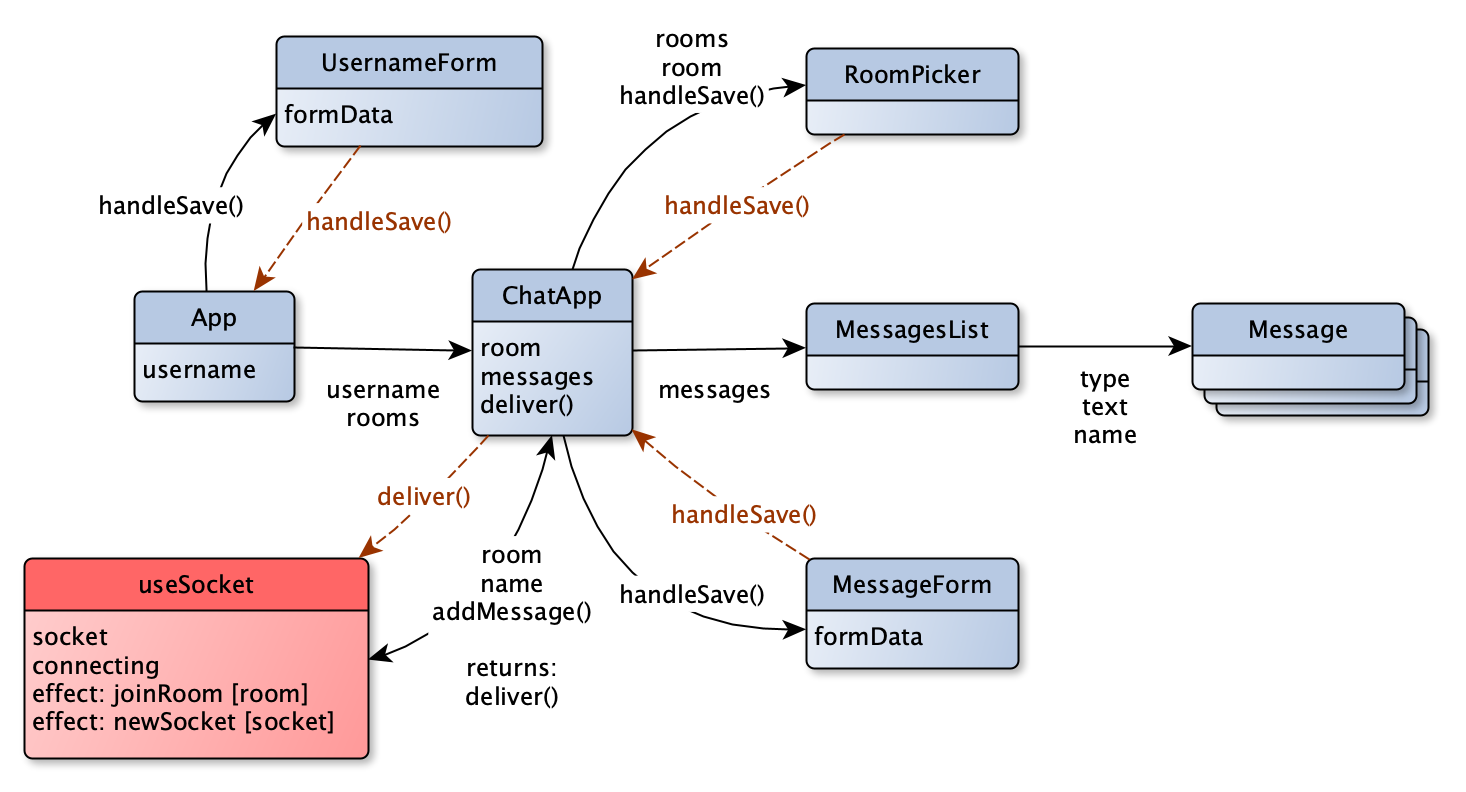
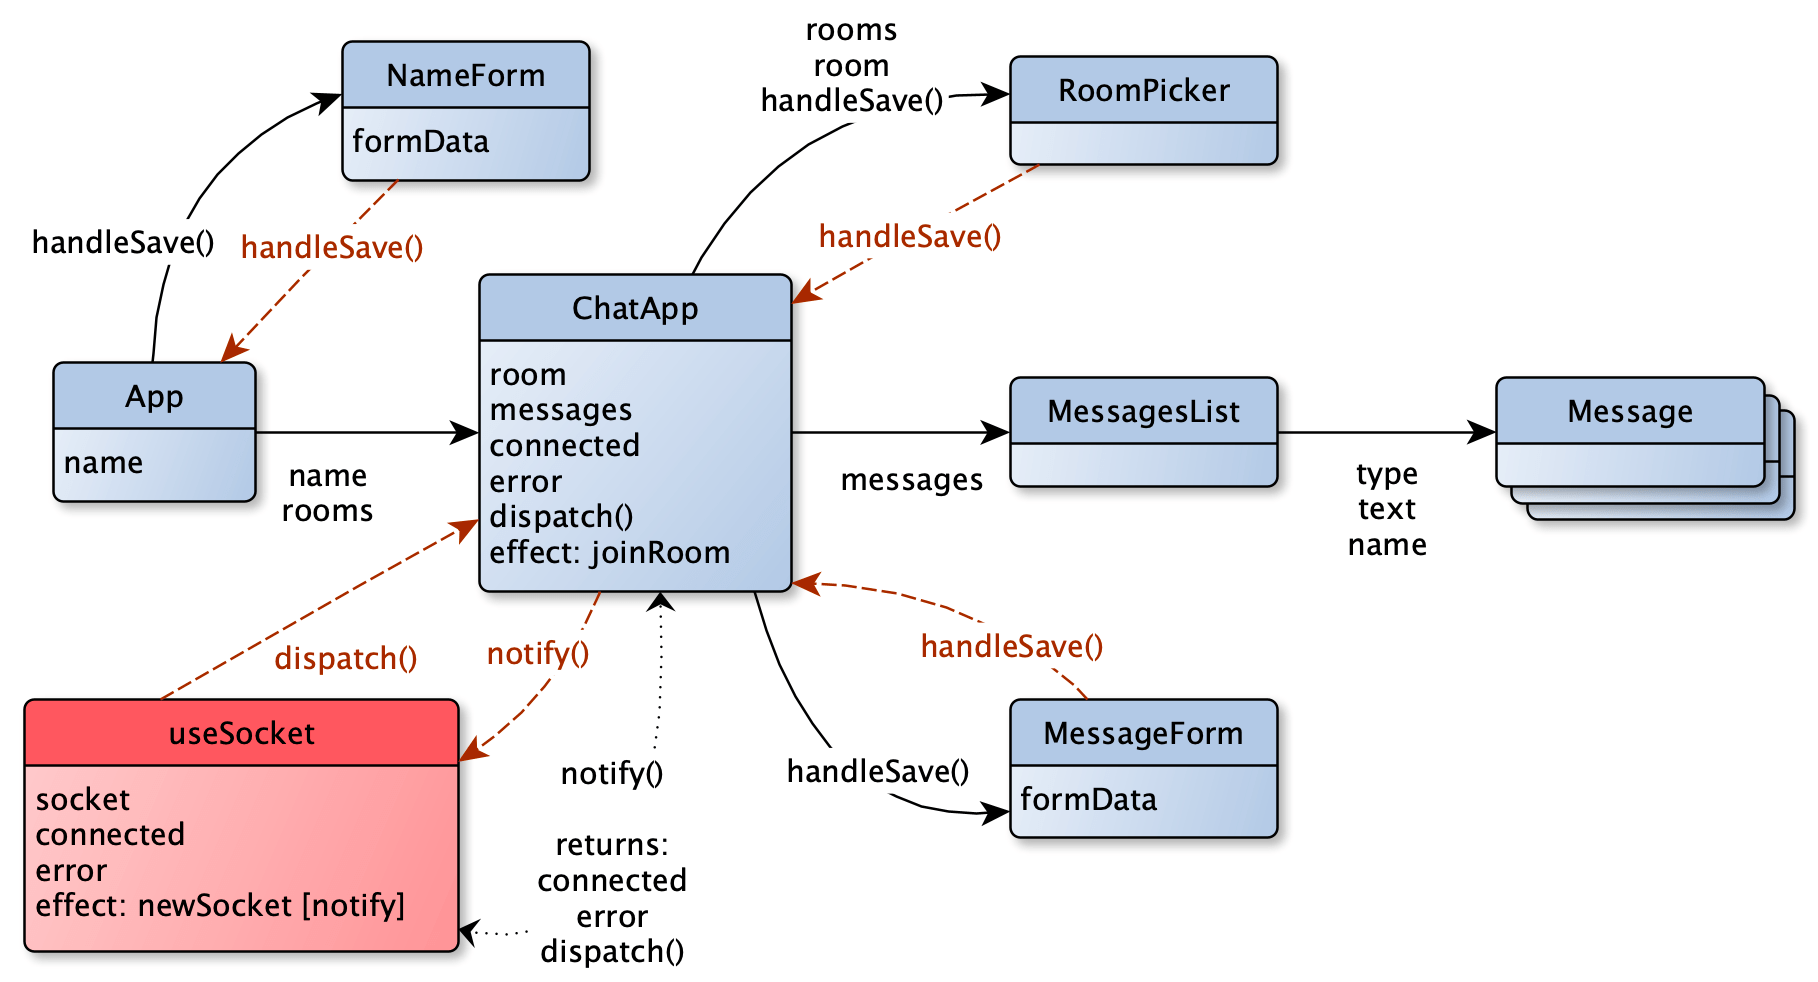
refactor: move room out of socket layer
- upload new image

- store img source in project

diff --git a/frontend/src/useSocket.js b/frontend/src/useSocket.js
@@ -1,48 +1,41 @@
-import { useEffect, useRef, useState } from "react";
+import { useEffect, useRef, useState, useCallback } from "react";
 
 /** Handle backend communication:
  *
- * - creates websocket & sends join message on new room
- * - sends leaving message on room departure
+ * - creates websocket
  * - receives messages from backend and sends to parent
- * - returns deliver function that parent can use to send to backend
+ * - returns dispatch function that parent can use to send to backend
+ *
+ * Props:
+ * - notify(msg): call in parent to notify them of a message.
  */
 
 const BASE_URL = process.env.REACT_APP_BASE_URL || "ws://localhost:3333";
 
-function useSocket(room, name, addMessage) {
+function useSocket(notify) {
   // a ref is like state, except it doesn't trigger a re-render when changed.
   // we'll hold onto the handler for the persistent websocket connection.
   const socket = useRef();
   const [connected, setConnected] = useState(false);
+  const [error, setError] = useState(null);
 
   /** newSocket: attaches listeners to socket. */
   useEffect(function newSocket() {
     if (socket.current) return;
 
     socket.current = new WebSocket(`${BASE_URL}/chat/`);
-    socket.current.onopen = evt => setConnected(true);
-    socket.current.onmessage = evt => addMessage(JSON.parse(evt.data));
-  }, [addMessage]);
-
-  /** joinRoom: join room, leave room on cleanup */
-  useEffect(function joinRoom() {
-    if (!room || !connected) return;
-
-    socket.current.send(JSON.stringify({ type: "join", name, room }));
-
-    return function leaveRoom() {
-      socket.current.send(JSON.stringify({ type: "leave" }));
-    };
-  }, [connected, room, name]);
+    socket.current.onopen = () => setConnected(true);
+    socket.current.onmessage = evt => notify(JSON.parse(evt.data));
+    socket.current.onerror = evt => setError(`WS Fail: ${evt.target.url}`);
+  }, [notify]);
 
   /** Deliver message to backend. */
-  function deliver(text, type = "chat") {
-    socket.current.send(JSON.stringify({ type, text }));
+  function dispatch(msg) {
+    socket.current.send(JSON.stringify(msg));
   }
 
   // Returns a function which ChatApp will call to send a message via backend.
-  return deliver;
+  return [connected, error, useCallback(dispatch, [socket])];
 }
 
 

diff --git a/frontend/src/NameForm.js b/frontend/src/NameForm.js
@@ -1,21 +1,20 @@
 import React, { useState } from "react";
-import "./UsernameForm.css";
+import "./NameForm.css";
 
 /** Form for adding.
  *
  * Props:
  * - handleSave: function to call in parent.
  *
- * ChatApp -> UsernameForm
+ * ChatApp -> NameForm
  */
 
-function UsernameForm({ handleSave }) {
-  const [formData, setFormData] = useState({username: ""});
+function NameForm({ handleSave }) {
+  const [formData, setFormData] = useState({name: ""});
 
   /** Update form input. */
   function handleChange(evt) {
     const input = evt.target;
-    if (evt.target.value.length >= 10) return
     setFormData(formData => ({
       ...formData,
       [input.name]: input.value,
@@ -29,18 +28,19 @@ function UsernameForm({ handleSave }) {
   }
 
   return (
-      <form className="UsernameForm d-flex vh-100" onSubmit={handleSubmit}>
+      <form className="NameForm d-flex vh-100" onSubmit={handleSubmit}>
 
         <div className="form-group align-self-center">
           <p>What shall we call you?</p>
           <input
-              id="UsernameForm-username"
-              name="username"
+              id="NameForm-name"
+              name="name"
               className="form-control"
               placeholder="TacoCat"
               onChange={handleChange}
-              value={formData.username}
-              aria-label="Username"
+              value={formData.name}
+              aria-label="Name"
+              maxLength="10"
               autoFocus={true}
           />
         </div>
@@ -49,4 +49,4 @@ function UsernameForm({ handleSave }) {
   );
 }
 
-export default UsernameForm;
+export default NameForm;

diff --git a/frontend/src/ChatApp.js b/frontend/src/ChatApp.js
@@ -1,4 +1,4 @@
-import React, { useState } from "react";
+import React, { useEffect, useState } from "react";
 import MessageForm from "./MessageForm";
 import MessagesList from "./MessagesList";
 import RoomPicker from "./RoomPicker";
@@ -6,10 +6,10 @@ import useSocket from "./useSocket";
 
 /** App: manage messages & room; show UI. */
 
-function ChatApp({ username, rooms = ["Main", "Gossip", "Scandal"] }) {
+function ChatApp({ name, rooms = ["Main", "Gossip", "Scandal"] }) {
   const [room, setRoom] = useState(rooms[0]);
   const [messages, setMessages] = useState([]);
-  const deliver = useSocket(room, username, addMessage);
+  const [connected, error, dispatch] = useSocket(addMessage);
 
   /** Add a message from backend. */
   function addMessage(message) {
@@ -18,8 +18,21 @@ function ChatApp({ username, rooms = ["Main", "Gossip", "Scandal"] }) {
 
   /** Process new message user just entered in form. */
   function userEnteredMessage({ message }) {
-    deliver(message);
+    dispatch({type: "chat", text: message});
   }
+
+  /** joinRoom: join room, leave room on cleanup */
+  useEffect(function joinRoom() {
+    if (!connected) return;
+
+    dispatch({type: "join", name, room });
+
+    return function leaveRoom() {
+      dispatch({type: "leave"})
+    };
+  }, [connected, room, name, dispatch]);
+
+  if (error) return <b>Error: { error }</b>;
 
   return (
       <main className="vh-100 d-flex flex-column">

diff --git a/frontend/src/App.js b/frontend/src/App.js
@@ -2,20 +2,22 @@ import React, { useState } from "react";
 import './App.css';
 import ChatApp from "./ChatApp.js";
 import "bootstrap/dist/css/bootstrap.css";
-import UsernameForm from "./UsernameForm";
+import NameForm from "./NameForm";
+
+/** Overall page: gathers a name then renders chat app. */
 
 function App() {
-  const [username, setUsername] = useState("");
+  const [name, setName] = useState("");
 
-  function acceptUsername({ username }) {
-    setUsername(username);
+  function acceptName({ name }) {
+    setName(name);
   }
 
   return (
     <div className="App container">
-      { !username
-      ? <UsernameForm handleSave={acceptUsername} />
-      : <ChatApp username={username} />}
+      { !name
+      ? <NameForm handleSave={acceptName} />
+      : <ChatApp name={name} />}
 
     </div>
   );

diff --git a/frontend/src/MessageForm.js b/frontend/src/MessageForm.js
@@ -14,7 +14,6 @@ function MessageForm({ handleSave }) {
   /** Update form input. */
   function handleChange(evt) {
     const input = evt.target;
-    if (evt.target.value.length >= 80) return
     setFormData(formData => ({
       ...formData,
       [input.name]: input.value,
@@ -38,6 +37,7 @@ function MessageForm({ handleSave }) {
               onChange={handleChange}
               value={formData.message}
               aria-label="Message"
+              maxLength="80"
               autoFocus={true}
           />
         </div>

diff --git a/frontend/src/NameForm.css b/frontend/src/NameForm.css
@@ -1,13 +1,13 @@
-.UsernameForm {
+.NameForm {
   font-size: 200%;
 }
 
-.UsernameForm input {
+.NameForm input {
   font-size: 200%;
   box-shadow: none !important;
   border: none;
 }
 
-.UsernameForm input::placeholder {
+.NameForm input::placeholder {
   color: #eee;
 }
